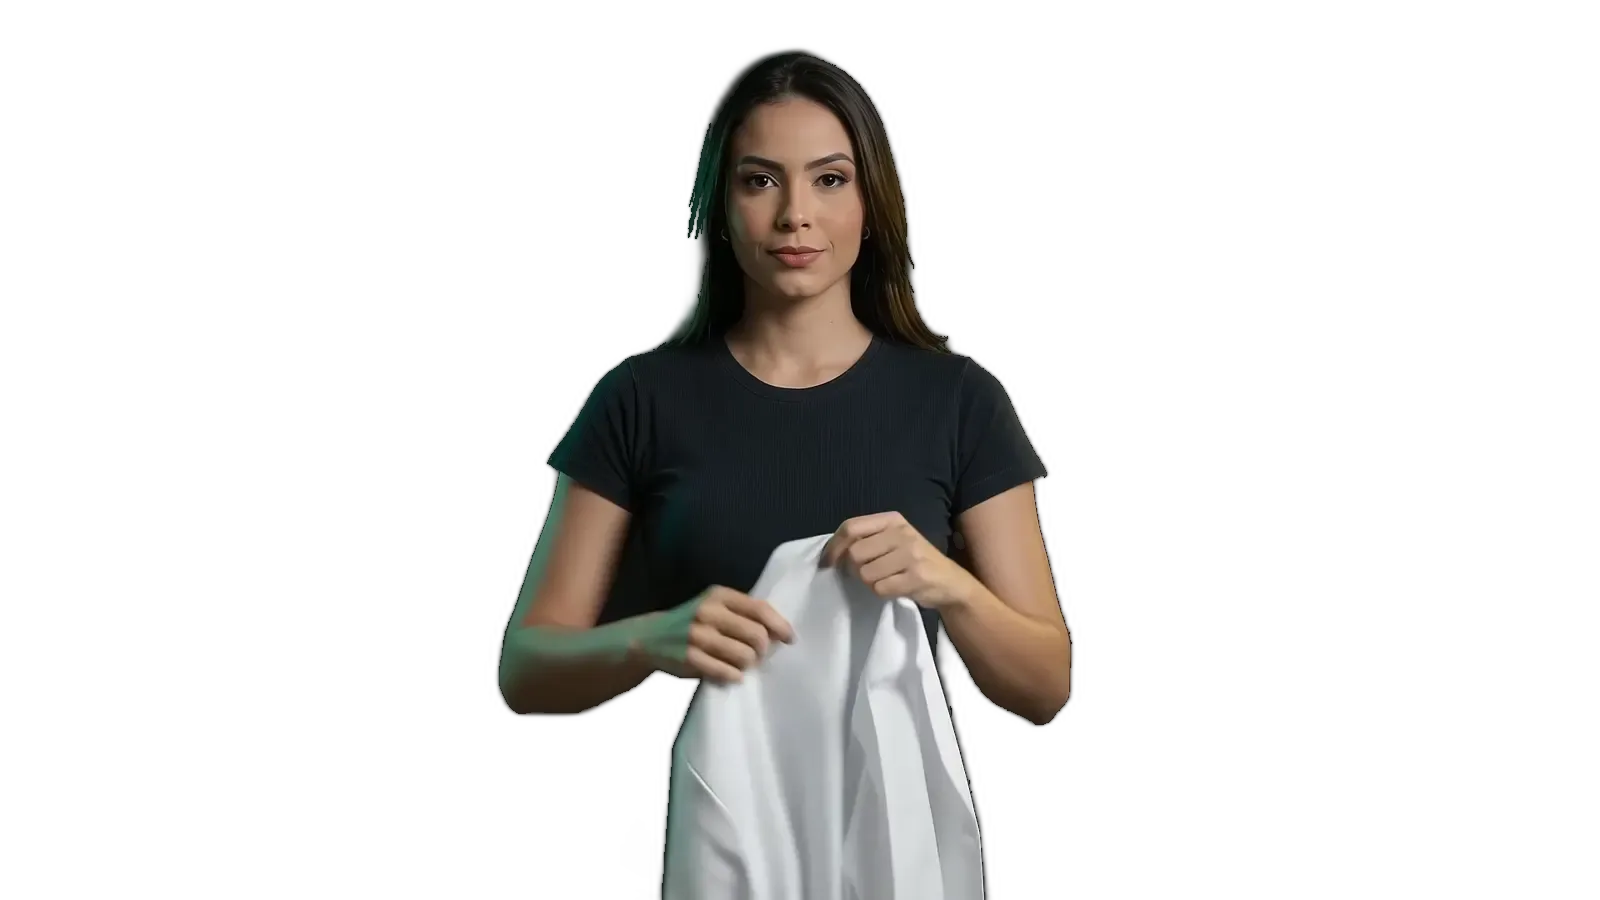
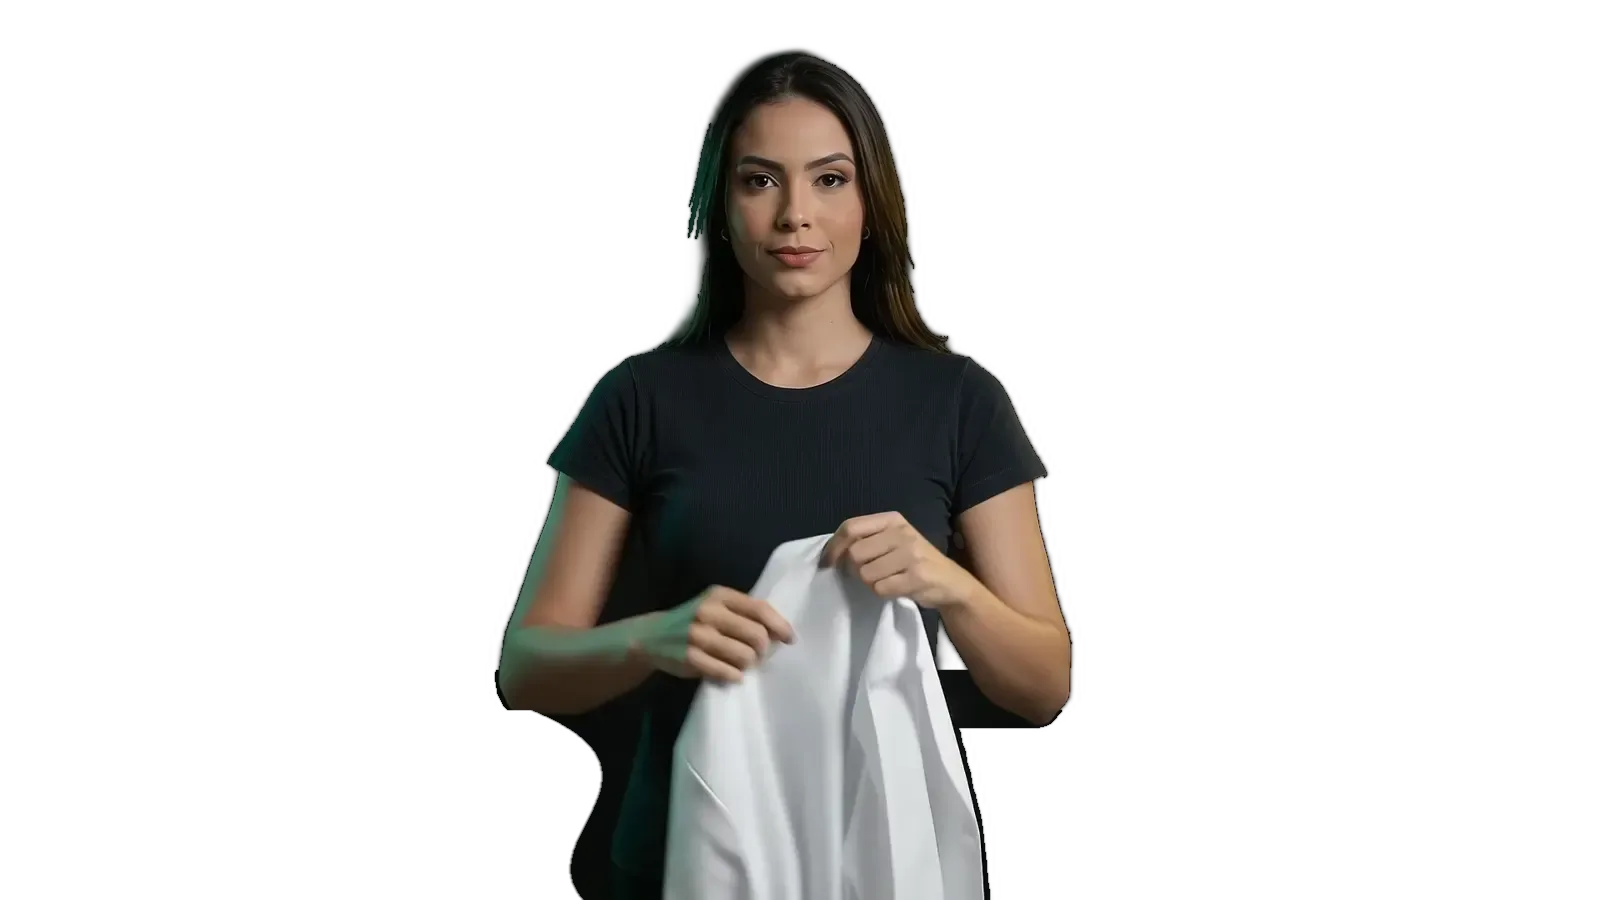
fix(scrollytelling): restore belly and lower torso in female initial frames 1-6

Changed region(s): [[0.3125, 0.7467, 0.4375, 1.0], [0.5625, 0.7467, 0.6562, 0.9022], [0.5938, 0.9644, 0.625, 1.0]]

diff --git a/scripts/regenerate_transparent_frames.py b/scripts/regenerate_transparent_frames.py
@@ -6,11 +6,12 @@ import numpy as np
 from PIL import Image
 from rembg import new_session, remove
 
-def perfect_matte(orig_bgr, ai_alpha):
+def perfect_matte(orig_bgr, ai_alpha, gender='female', frame_idx=1):
     """
     Combines AI semantic segmentation mask with luminance connected components
     to recover lab coat folds, flying sleeves, and outstretched arms/hands
-    without introducing dark background noise.
+    without introducing dark background noise. Also fixes the dark t-shirt
+    cut-off on lower torso/belly for female frames 1 to 6.
     """
     gray = cv2.cvtColor(orig_bgr, cv2.COLOR_BGR2GRAY)
     bright = (gray > 28).astype(np.uint8)
@@ -21,7 +22,35 @@ def perfect_matte(orig_bgr, ai_alpha):
             clean_bright[labels == i] = 1
 
     combined = np.maximum(ai_alpha, clean_bright * 255)
-    blurred = cv2.GaussianBlur(combined, (5, 5), 0)
+
+    # Anatomical waist / lower torso correction for female initial frames
+    if gender == 'female' and frame_idx <= 6:
+        # Fill internal shadow gaps under arm (y=670..715)
+        for y in range(670, 715):
+            row = combined[y, :]
+            fg = np.where(row > 10)[0]
+            if len(fg):
+                min_x = fg.min()
+                max_x = min(fg.max(), 1050)
+                combined[y, min_x:max_x] = 255
+
+        # Smooth waist curve from under elbow/forearm down to base (y=710..900)
+        pts_y = np.array([710, 730, 760, 820, 900])
+        pts_x = np.array([530, 580, 595, 590, 585])
+        poly = np.poly1d(np.polyfit(pts_y, pts_x, 3))
+
+        for y in range(710, 900):
+            lx = int(np.clip(poly(y), 500, 700))
+            row = combined[y, :]
+            fg = np.where(row > 10)[0]
+            rx = fg.max() if len(fg) else 980
+            combined[y, lx:rx] = 255
+            if lx > 2:
+                combined[y, lx-1] = 170
+                combined[y, lx-2] = 70
+                combined[y, :lx-2] = 0
+
+    blurred = cv2.GaussianBlur(combined, (3, 3), 0)
     final_alpha = np.where(combined > 240, 255, blurred)
     return final_alpha.astype(np.uint8)
 
@@ -36,7 +65,6 @@ def process_sequence(gender, session, base_dir):
     t_start = time.time()
 
     for idx, fpath in enumerate(files, 1):
-        t_frame = time.time()
         fname = os.path.basename(fpath)
         out_path = os.path.join(dst_dir, fname)
 
@@ -48,8 +76,8 @@ def process_sequence(gender, session, base_dir):
         ai_mask = remove(img_pil, session=session, only_mask=True)
         ai_alpha = np.array(ai_mask)
 
-        # 3. Hybrid recovery of cut off limbs and coat fabric
-        alpha = perfect_matte(orig_bgr, ai_alpha)
+        # 3. Hybrid recovery of cut off limbs and coat fabric + torso correction
+        alpha = perfect_matte(orig_bgr, ai_alpha, gender=gender, frame_idx=idx)
 
         # 4. Merge RGBA
         b, g, r = cv2.split(orig_bgr)
